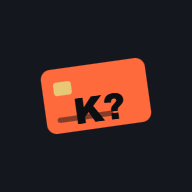
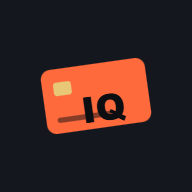
Rebrand to RewardIQ; gold/silver colored metals strip with glow + silver per-kg
- App renamed RewardIQ (title, h1, manifest, apple title, icons now say IQ)
- Metals strip: gold values in gold, silver in silver; 22K price pulses
  with a gold glow, new silver per-kg figure glows silver
- sw cache -> v7

Changed region(s): [[0.375, 0.4688, 0.6562, 0.6562]]

diff --git a/index.html b/index.html
@@ -3,13 +3,13 @@
 <head>
 <meta charset="utf-8">
 <meta name="viewport" content="width=device-width, initial-scale=1, viewport-fit=cover">
-<title>Kaunsa Card?</title>
+<title>RewardIQ</title>
 <link rel="manifest" href="manifest.json">
 <meta name="theme-color" content="#0d0e12">
 <meta name="mobile-web-app-capable" content="yes">
 <meta name="apple-mobile-web-app-capable" content="yes">
 <meta name="apple-mobile-web-app-status-bar-style" content="black-translucent">
-<meta name="apple-mobile-web-app-title" content="Kaunsa">
+<meta name="apple-mobile-web-app-title" content="RewardIQ">
 <link rel="apple-touch-icon" href="apple-touch-icon.png">
 <link rel="icon" href="icon.svg" type="image/svg+xml">
 <link rel="preconnect" href="https://fonts.googleapis.com">
@@ -351,6 +351,20 @@ footer b{color:var(--dim)}
 .metals-strip .m-item b{color:var(--txt); font-size:13.5px}
 .metals-strip .m-lbl{color:var(--faint); font-size:11px; text-transform:uppercase; letter-spacing:.4px}
 .metals-strip .m-as{margin-left:auto; color:var(--faint); font-size:11px}
+.metals-strip .m-gold .m-lbl{color:#b99b4f}
+.metals-strip .m-gold b{color:#e8c877}
+.metals-strip .m-silver .m-lbl{color:#8d93a5}
+.metals-strip .m-silver b{color:#d9dde8}
+@keyframes glowGold{
+  0%,100%{text-shadow:0 0 3px rgba(232,200,119,.25)}
+  50%{text-shadow:0 0 10px rgba(232,200,119,.85), 0 0 22px rgba(232,200,119,.35)}
+}
+@keyframes glowSilver{
+  0%,100%{text-shadow:0 0 3px rgba(217,221,232,.25)}
+  50%{text-shadow:0 0 10px rgba(217,221,232,.8), 0 0 22px rgba(217,221,232,.3)}
+}
+.metals-strip .m-glow-gold b{animation:glowGold 2.4s ease-in-out infinite}
+.metals-strip .m-glow-silver b{animation:glowSilver 2.4s ease-in-out infinite}
 button:focus-visible,#q:focus-visible,.preset:focus-visible,.chip:focus-visible{
   outline:2px solid var(--txt); outline-offset:2px;
 }
@@ -366,14 +380,15 @@ button:focus-visible,#q:focus-visible,.preset:focus-visible,.chip:focus-visible{
 <div class="wrap">
 
 <header>
-  <h1>Kaunsa <em>Card?</em></h1>
+  <h1>Reward<em>IQ</em></h1>
   <p class="tagline">Type any store or brand. Swipe the winner.</p>
 </header>
 
 <div class="metals-strip" id="metals" title="Best-effort Bengaluru rates via AI &mdash; verify before big buys">
-  <span class="m-item"><span class="m-lbl">Gold 24K</span> <b>&#8377;<span id="m-gold24">&hellip;</span></b>/g</span>
-  <span class="m-item"><span class="m-lbl">Gold 22K</span> <b>&#8377;<span id="m-gold22">&hellip;</span></b>/g</span>
-  <span class="m-item"><span class="m-lbl">Silver</span> <b>&#8377;<span id="m-silver">&hellip;</span></b>/g</span>
+  <span class="m-item m-gold"><span class="m-lbl">Gold 24K</span> <b>&#8377;<span id="m-gold24">&hellip;</span></b>/g</span>
+  <span class="m-item m-gold m-glow-gold"><span class="m-lbl">Gold 22K</span> <b>&#8377;<span id="m-gold22">&hellip;</span></b>/g</span>
+  <span class="m-item m-silver"><span class="m-lbl">Silver</span> <b>&#8377;<span id="m-silver">&hellip;</span></b>/g</span>
+  <span class="m-item m-silver m-glow-silver"><span class="m-lbl">Silver</span> <b>&#8377;<span id="m-silverkg">&hellip;</span></b>/kg</span>
   <span class="m-as" id="m-as"></span>
 </div>
 
@@ -1089,6 +1104,7 @@ async function loadMetals(){
     $('m-gold24').textContent = d.gold24.toLocaleString('en-IN');
     $('m-gold22').textContent = d.gold22.toLocaleString('en-IN');
     $('m-silver').textContent = d.silver.toLocaleString('en-IN');
+    $('m-silverkg').textContent = Math.round(d.silver * 1000).toLocaleString('en-IN');
     $('m-as').textContent = d.city + ' \u00b7 ' + (d.asOf || 'today');
     $('metals').classList.add('show');
   } catch(_){ /* keep hidden */ }

diff --git a/sw.js b/sw.js
@@ -2,7 +2,7 @@
 // Network-first so live rates/brands stay fresh; falls back to cache when
 // offline. AI endpoints (/api/*) are never touched so they always run live.
 
-const CACHE = "kaunsa-v6";
+const CACHE = "kaunsa-v7";
 const SHELL = [
   "./",
   "./index.html",